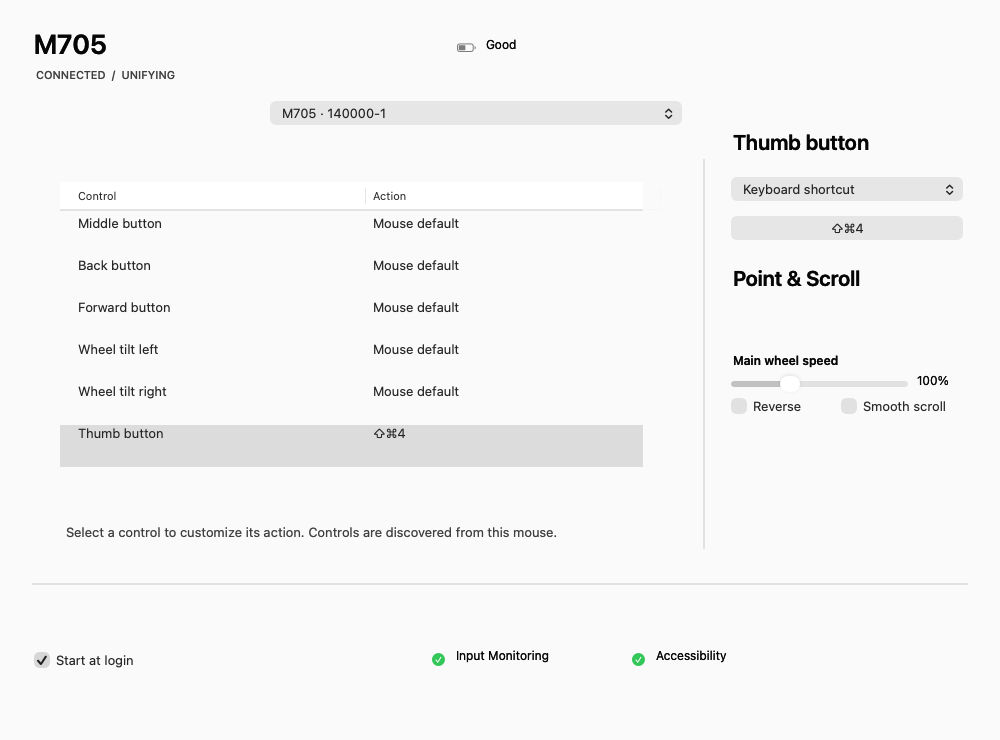
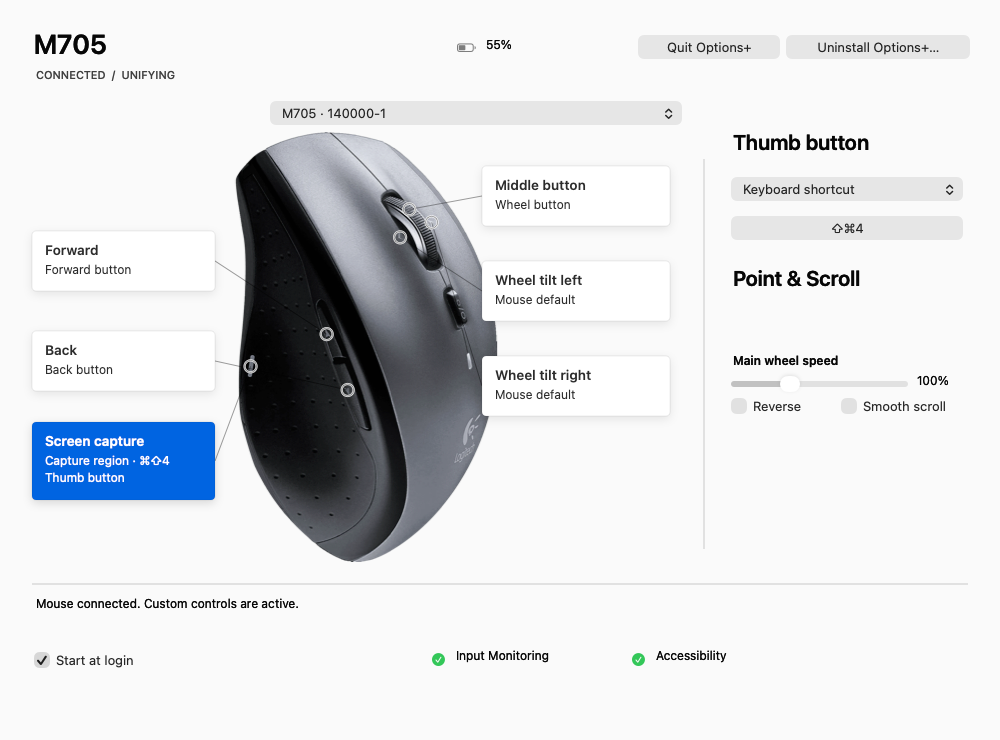
fix: preserve mouse diagrams and offline settings
Restore M705 artwork and control callouts using Options+ layout metadata. Persist discovered layouts for offline editing and retain remembered devices after removal.

Clarify Settings-only memory use and document resource sources. Validate with the native regression suite and signed build.

diff --git a/src/settings.m b/src/settings.m
@@ -126,22 +126,50 @@ static NSString *shortcutLabel(unsigned short code, NSEventModifierFlags flags) 
 }
 @end
 
+// Positions from the installed M705 Options+ core_metadata.json; controls still
+// come from HID++ discovery, so variants never acquire absent buttons.
+static BOOL m705Layout(unsigned cid, NSPoint *marker, NSRect *callout) {
+    switch(cid) {
+        case 0x52: *marker=NSMakePoint(66.5,18); *callout=NSMakeRect(450,340,200,72); break;
+        case 0x53: *marker=NSMakePoint(43,60); *callout=NSMakeRect(0,175,195,72); break;
+        case 0x56: *marker=NSMakePoint(35,47); *callout=NSMakeRect(0,275,195,72); break;
+        case 0x59: *marker=NSMakePoint(6,54.5); *callout=NSMakeRect(0,75,195,72); break;
+        case 0x5b: *marker=NSMakePoint(63,24.5); *callout=NSMakeRect(450,245,200,72); break;
+        case 0x5d: *marker=NSMakePoint(75,21); *callout=NSMakeRect(450,150,200,72); break;
+        default: return NO;
+    }
+    return YES;
+}
+
 @interface MXDiagram : NSView
 @property NSArray<NSValue *> *anchors;
 @property NSArray<NSValue *> *ends;
 @property BOOL compactMouse;
 @property NSIndexSet *visibleControls;
+@property NSArray<NSDictionary *> *mappedControls;
 @end
 @implementation MXDiagram
 - (NSView *)hitTest:(NSPoint)point { (void)point; return nil; }
 - (void)drawRect:(NSRect)rect {
     (void)rect;
     NSColor *ink = [NSColor.secondaryLabelColor colorWithAlphaComponent:0.48];
-    for (NSUInteger i = 0; i < self.anchors.count; ++i) {
-        if (self.visibleControls && ![self.visibleControls containsIndex:i]) continue;
-        if (self.compactMouse && i >= 4) continue;
-        NSPoint point = self.anchors[i].pointValue, start = self.ends[i].pointValue;
-        if(self.compactMouse) {
+    NSMutableArray<NSValue *> *anchors=[self.anchors mutableCopy], *ends=[self.ends mutableCopy];
+    if(self.mappedControls) {
+        anchors=[NSMutableArray new]; ends=[NSMutableArray new];
+        for(NSDictionary *control in self.mappedControls) {
+            NSPoint marker; NSRect card;
+            if(!m705Layout([control[@"cid"] unsignedIntValue],&marker,&card)) continue;
+            // The 1169×1916 image is centered in the 270×430 view at (205,10).
+            NSPoint point=NSMakePoint(208.82+262.36*marker.x/100,440-430*marker.y/100);
+            [anchors addObject:[NSValue valueWithPoint:point]];
+            [ends addObject:[NSValue valueWithPoint:NSMakePoint(card.origin.x<200 ? NSMaxX(card)-6 : card.origin.x+6,NSMidY(card))]];
+        }
+    }
+    for (NSUInteger i = 0; i < anchors.count; ++i) {
+        if (!self.mappedControls && self.visibleControls && ![self.visibleControls containsIndex:i]) continue;
+        if (!self.mappedControls && self.compactMouse && i >= 4) continue;
+        NSPoint point = anchors[i].pointValue, start = ends[i].pointValue;
+        if(self.compactMouse && !self.mappedControls) {
             NSPoint compactAnchors[]={NSMakePoint(338,337),NSMakePoint(289,253),NSMakePoint(266,286),NSMakePoint(275,183)};
             point=compactAnchors[i];
         }
@@ -215,6 +243,7 @@ static NSString *shortcutLabel(unsigned short code, NSEventModifierFlags flags) 
 @property NSTextField *selectionTitle;
 @property NSMutableArray<NSView *> *buttonPanes;
 @property NSMutableArray<MXCallout *> *callouts;
+@property NSMutableArray<MXCallout *> *extraCallouts;
 @property NSInteger selectedButton;
 @property SMAppService *loginService;
 @property NSTimer *statusTimer;
@@ -288,7 +317,7 @@ static NSString *shortcutLabel(unsigned short code, NSEventModifierFlags flags) 
     NSView *diagram = [[NSView alloc] initWithFrame:NSMakeRect(26, 168, 660, 440)]; [root addSubview:diagram];
     MXMouseView *mouse = [[MXMouseView alloc] initWithFrame:NSMakeRect(205, 10, 270, 430)]; [diagram addSubview:mouse]; self.mouseView=mouse;
     MXDiagram *arrows=[[MXDiagram alloc] initWithFrame:diagram.bounds]; [diagram addSubview:arrows]; self.diagramLines=arrows;
-    self.callouts = [NSMutableArray new];
+    self.callouts = [NSMutableArray new]; self.extraCallouts=[NSMutableArray new];
     NSArray *names = @[@"Middle button", @"Back", @"Forward", @"Thumb button", @"Top button"];
     NSArray<NSValue *> *frames = @[[NSValue valueWithRect:NSMakeRect(432,340,177,72)], [NSValue valueWithRect:NSMakeRect(270,75,174,72)], [NSValue valueWithRect:NSMakeRect(94,235,176,72)], [NSValue valueWithRect:NSMakeRect(0,145,211,90)], [NSValue valueWithRect:NSMakeRect(452,250,185,90)]];
     self.modes = [NSMutableArray new]; self.recorders = [NSMutableArray new]; self.buttonPanes = [NSMutableArray new];
@@ -319,6 +348,9 @@ static NSString *shortcutLabel(unsigned short code, NSEventModifierFlags flags) 
     }
     // Additional HID++ controls share the same editor, without adding a fixed model layout.
     for(NSUInteger i=MX_BUTTON_COUNT;i<MX_BUTTON_COUNT+MX_EXTRA_BUTTON_COUNT;++i) {
+        MXCallout *callout=[[MXCallout alloc] initWithFrame:NSZeroRect]; callout.bordered=NO;
+        callout.tag=(NSInteger)i; callout.target=self; callout.action=@selector(selectButton:); callout.hidden=YES;
+        [diagram addSubview:callout]; [self.extraCallouts addObject:callout];
         NSView *pane=[[NSView alloc] initWithFrame:NSMakeRect(0,0,240,88)]; pane.hidden=YES; [buttonEditor addSubview:pane]; [self.buttonPanes addObject:pane];
         NSPopUpButton *mode=[[NSPopUpButton alloc] initWithFrame:NSMakeRect(0,46,232,30) pullsDown:NO];
         [mode addItemsWithTitles:@[@"Mouse default",@"Keyboard shortcut",@"Do nothing"]]; mode.tag=(NSInteger)i; mode.target=self; mode.action=@selector(modeChanged:); [pane addSubview:mode]; [self.modes addObject:mode];
@@ -380,6 +412,8 @@ static NSString *shortcutLabel(unsigned short code, NSEventModifierFlags flags) 
             NSInteger index=arguments[selection+1].integerValue;
             if(index>=0 && index<MX_BUTTON_COUNT) { self.selectedButton=index; [self updateCallouts]; }
         }
+        NSUInteger deviceSelection=[arguments indexOfObject:@"--preview-device"];
+        if(deviceSelection!=NSNotFound && deviceSelection+1<arguments.count) self.selectedDeviceID=arguments[deviceSelection+1];
         [self refresh:nil];
         NSView *view=self.window.contentView;
         [view layoutSubtreeIfNeeded];
@@ -450,8 +484,61 @@ static NSString *shortcutLabel(unsigned short code, NSEventModifierFlags flags) 
     for(NSDictionary *control in self.availableControls) if([control[@"slot"] unsignedIntegerValue]==slot) return control;
     return nil;
 }
+- (NSArray *)rememberedDevices:(NSDictionary *)status {
+    NSString *path=supportPath(@"known-devices.plist");
+    NSDictionary *saved=readDictionary(path);
+    NSMutableDictionary *known=[saved mutableCopy];
+    NSMutableArray *entries=[NSMutableArray new]; NSMutableSet *seen=[NSMutableSet new];
+    NSArray *live=[status[@"devices"] isKindOfClass:NSArray.class] ? status[@"devices"] : @[];
+    for(id item in live) {
+        if(![item isKindOfClass:NSDictionary.class]) continue;
+        NSDictionary *device=item;
+        NSString *identity=[device[@"id"] isKindOfClass:NSString.class] ? device[@"id"] : nil;
+        if(!identity.length) continue;
+        [seen addObject:identity];
+        NSDictionary *previous=[known[identity] isKindOfClass:NSDictionary.class] ? known[identity] : nil;
+        NSArray *controls=[device[@"controls"] isKindOfClass:NSArray.class] ? device[@"controls"] : @[];
+        NSMutableDictionary *entry=[device mutableCopy];
+        if([device[@"connected"] boolValue] && controls.count) {
+            // Persist layout only, never stale live connection/battery state or bindings.
+            NSMutableDictionary *layout=[NSMutableDictionary new];
+            for(NSString *key in @[@"id",@"name",@"transport",@"controls",@"capabilities"]) if(device[key]) layout[key]=device[key];
+            known[identity]=layout;
+        } else if(![device[@"connected"] boolValue]) {
+            if(previous) {
+                for(NSString *key in @[@"name",@"transport",@"controls",@"capabilities"]) if(previous[key]) entry[key]=previous[key];
+            } else if(!controls.count && ([identity hasPrefix:@"logitech-4082-"] || [identity hasPrefix:@"logitech-b023-"])) {
+                // Existing MX Master 3 installs predate the cache. These exact
+                // model IDs have a known layout; live discovery supersedes it.
+                NSMutableArray *legacy=[NSMutableArray new];
+                const MXDeviceDefinition *model=mx_device_lookup(0x046d,0xb023);
+                for(NSUInteger slot=0;model && slot<MX_BUTTON_COUNT;++slot) {
+                    unsigned cid=model->button_controls[slot]; if(!cid) continue;
+                    const char *name=mx_control_name(cid);
+                    [legacy addObject:@{@"cid":@(cid),@"slot":@(slot),@"name":name ? @(name) : @"Mouse control",@"divertible":@YES}];
+                }
+                entry[@"controls"]=legacy;
+                entry[@"capabilities"]=@{@"buttons":@YES,@"verticalScroll":@YES,@"horizontalScroll":@YES,
+                    @"dpi":@YES,@"wheelMode":@YES,@"smartShift":@YES,@"battery":@YES};
+                NSMutableDictionary *layout=[NSMutableDictionary new];
+                for(NSString *key in @[@"id",@"name",@"transport",@"controls",@"capabilities"]) if(entry[key]) layout[key]=entry[key];
+                known[identity]=layout;
+            }
+        }
+        [entries addObject:entry];
+    }
+    // A receiver or Bluetooth removal must not remove the saved mouse from Settings.
+    for(NSString *identity in [[known allKeys] sortedArrayUsingSelector:@selector(compare:)]) {
+        if([seen containsObject:identity] || ![known[identity] isKindOfClass:NSDictionary.class]) continue;
+        NSMutableDictionary *entry=[known[identity] mutableCopy];
+        entry[@"connected"]=@NO; entry[@"state"]=@"waiting"; entry[@"detail"]=@"Mouse is offline. Showing saved settings.";
+        [entries addObject:entry];
+    }
+    if(path && ![known isEqual:saved]) mx_write_plist(path.fileSystemRepresentation,(__bridge CFDictionaryRef)known);
+    return entries;
+}
 - (NSDictionary *)updateDevice:(NSDictionary *)status {
-    NSArray *entries=[status[@"devices"] isKindOfClass:NSArray.class] ? status[@"devices"] : @[];
+    NSArray *entries=[self rememberedDevices:status];
     self.devices=entries;
     NSDictionary *device=nil;
     for(NSDictionary *candidate in entries) if([candidate[@"id"] isEqual:self.selectedDeviceID]) { device=candidate; break; }
@@ -502,17 +589,43 @@ static NSString *shortcutLabel(unsigned short code, NSEventModifierFlags flags) 
     changed=changed || ![self.availableControls isEqualToArray:editable];
     self.availableControls=editable;
     if(extraSlot>MX_BUTTON_COUNT) self.genericMouse=YES;
-    self.mouseView.hidden=self.diagramLines.hidden=self.genericMouse;
-    self.mouseView.frame=compact ? NSMakeRect(155,50,400,350) : NSMakeRect(205,10,270,430);
+    BOOL mappedM705=compact;
+    for(NSDictionary *control in editable) {
+        NSPoint marker; NSRect frame;
+        if(!m705Layout([control[@"cid"] unsignedIntValue],&marker,&frame)) mappedM705=NO;
+    }
+    if(mappedM705) self.genericMouse=NO;
+    self.diagramLines.mappedControls=mappedM705 ? editable : nil;
+    // Extra controls need the list, but do not remove artwork for known models.
+    BOOL artworkWithList=self.genericMouse && (compact || master3);
+    self.mouseView.hidden=!(compact || master3);
+    self.diagramLines.hidden=self.genericMouse;
+    self.mouseView.frame=artworkWithList ? (compact ? NSMakeRect(0,70,280,300) : NSMakeRect(30,20,220,380)) :
+        (mappedM705 ? NSMakeRect(205,10,270,430) : compact ? NSMakeRect(155,50,400,350) : NSMakeRect(205,10,270,430));
+    self.controlList.frame=artworkWithList ? NSMakeRect(320,228,360,330) : NSMakeRect(60,228,600,330);
+    if(self.controlTable.tableColumns.count==2) {
+        self.controlTable.tableColumns[0].width=artworkWithList ? 175 : 285;
+        self.controlTable.tableColumns[1].width=artworkWithList ? 155 : 285;
+    }
     self.mouseView.compactMouse=compact; self.mouseView.needsDisplay=YES;
     self.diagramLines.compactMouse=compact;
     NSMutableIndexSet *visible=[NSMutableIndexSet new];
+    NSArray<NSValue *> *defaultFrames=@[[NSValue valueWithRect:NSMakeRect(432,340,177,72)], [NSValue valueWithRect:NSMakeRect(270,75,174,72)], [NSValue valueWithRect:NSMakeRect(94,235,176,72)], [NSValue valueWithRect:NSMakeRect(0,145,211,90)], [NSValue valueWithRect:NSMakeRect(452,250,185,90)]];
     for(NSUInteger i=0;i<MX_BUTTON_COUNT;++i) {
+        if(i<self.callouts.count) self.callouts[i].frame=defaultFrames[i].rectValue;
         BOOL present=[self controlForSlot:i]!=nil;
         self.callouts[i].hidden=self.genericMouse || !present;
         if(present) [visible addIndex:i];
     }
     if([self hasCapability:@"horizontalScroll"]) [visible addIndex:5];
+    for(MXCallout *callout in self.extraCallouts) callout.hidden=YES;
+    if(mappedM705) for(NSDictionary *control in editable) {
+        NSUInteger slot=[control[@"slot"] unsignedIntegerValue]; NSPoint marker; NSRect frame;
+        if(!m705Layout([control[@"cid"] unsignedIntValue],&marker,&frame)) continue;
+        MXCallout *callout=slot<MX_BUTTON_COUNT ? (slot<self.callouts.count ? self.callouts[slot] : nil) :
+            (slot-MX_BUTTON_COUNT<self.extraCallouts.count ? self.extraCallouts[slot-MX_BUTTON_COUNT] : nil);
+        callout.frame=frame; callout.hidden=NO;
+    }
     self.diagramLines.visibleControls=visible; self.diagramLines.needsDisplay=YES;
     for(NSView *view in self.wheelViews) view.hidden=![self hasCapability:@"wheelMode"];
     [self.wheelMode itemAtIndex:3].enabled=[self hasCapability:@"smartShift"];
@@ -556,6 +669,17 @@ static NSString *shortcutLabel(unsigned short code, NSEventModifierFlags flags) 
         self.callouts[i].selected=(NSInteger)i==self.selectedButton;
         self.callouts[i].needsDisplay=YES;
 
+    }
+    for(NSUInteger i=0;i<self.extraCallouts.count;++i) {
+        NSUInteger slot=i+MX_BUTTON_COUNT; NSDictionary *control=[self controlForSlot:slot];
+        MXCallout *callout=self.extraCallouts[i];
+        if(control) {
+            NSInteger mode=self.modes[slot].indexOfSelectedItem;
+            NSString *action=mode==MX_SHORTCUT ? shortcutLabel(self.recorders[slot].keyCode,self.recorders[slot].shortcutModifiers) : mode==MX_DISABLED ? @"Do nothing" : @"Mouse default";
+            callout.title=[NSString stringWithFormat:@"%@\n%@",control[@"name"] ?: @"Mouse control",action];
+            callout.accessibilityLabel=[callout.title stringByReplacingOccurrencesOfString:@"\n" withString:@", "];
+            callout.selected=(NSInteger)slot==self.selectedButton; callout.needsDisplay=YES;
+        }
     }
     for(NSUInteger i=0;i<self.buttonPanes.count;++i) self.buttonPanes[i].hidden=(NSInteger)i!=self.selectedButton || ![self controlForSlot:i];
     NSDictionary *selected=self.selectedButton>=0 ? [self controlForSlot:(NSUInteger)self.selectedButton] : nil;

diff --git a/tests/settings_test.m b/tests/settings_test.m
@@ -23,6 +23,14 @@ static NSDictionary *device(NSString *identity, NSString *name, NSArray *control
 static SettingsTestDelegate *editor(void) {
     SettingsTestDelegate *ui=[SettingsTestDelegate new];
     ui.deviceSelector=[[NSPopUpButton alloc] initWithFrame:NSZeroRect];
+    ui.mouseView=[[MXMouseView alloc] initWithFrame:NSZeroRect];
+    ui.diagramLines=[[MXDiagram alloc] initWithFrame:NSZeroRect];
+    ui.controlList=[[NSScrollView alloc] initWithFrame:NSZeroRect];
+    ui.callouts=[NSMutableArray new]; ui.extraCallouts=[NSMutableArray new];
+    for(NSUInteger i=0;i<6;++i) [ui.callouts addObject:[MXCallout new]];
+    for(NSUInteger i=0;i<MX_EXTRA_BUTTON_COUNT;++i) {
+        MXCallout *callout=[MXCallout new]; callout.tag=(NSInteger)(i+MX_BUTTON_COUNT); [ui.extraCallouts addObject:callout];
+    }
     ui.modes=[NSMutableArray new]; ui.recorders=[NSMutableArray new]; ui.buttonPanes=[NSMutableArray new];
     for(NSUInteger i=0;i<MX_BUTTON_COUNT+MX_EXTRA_BUTTON_COUNT;++i) {
         NSPopUpButton *mode=[[NSPopUpButton alloc] initWithFrame:NSZeroRect];
@@ -86,9 +94,12 @@ int main(void) {
         ui.verticalSpeed.integerValue=200; ui.invertVertical.state=NSControlStateValueOff; ui.smooth.state=NSControlStateValueOff;
         assert([ui save] && mx_load_device_config(&config,"m705",error,sizeof(error)));
         assert(config.vertical_speed==140 && config.invert_vertical && config.smooth);
-        // If the selected mouse disappears, fallback loads the remaining profile without saving stale UI values into it.
+        // A disappearing mouse remains selected with its saved layout and profile.
         NSDictionary *savedMX4=after[@"devices"][@"mx4"];
         ui.testStatus=@{@"devices":@[mx4]}; [ui refresh:nil];
+        assert([ui.selectedDeviceID isEqual:@"m705"] && ![ui.selectedDevice[@"connected"] boolValue]);
+        assert(ui.availableControls.count==3 && !ui.mouseView.hidden);
+        ui.selectedDeviceID=@"mx4"; ui.selectedDevice=nil; [ui refresh:nil];
         assert([ui.selectedDeviceID isEqual:@"mx4"] && ui.verticalSpeed.integerValue==79);
         assert([readDictionary(supportPath(@"settings.plist"))[@"devices"][@"mx4"] isEqual:savedMX4]);
         // Existing explicit overrides must be updated when editing a legacy-slot control.
@@ -96,7 +107,7 @@ int main(void) {
         assert(mx_binding_for_control(&config,0xc3,3)->key==50);
         assert(![ui canImportOptions]);
         NSDictionary *master3=device(@"master3",@"MX Master 3 for Mac",@[control(0xc3,3,@"Gesture")]);
-        ui.testStatus=@{@"devices":@[master3]}; [ui refresh:nil]; assert([ui canImportOptions]);
+        ui.selectedDeviceID=@"master3"; ui.selectedDevice=nil; ui.testStatus=@{@"devices":@[master3]}; [ui refresh:nil]; assert([ui canImportOptions]);
         NSDictionary *imported=[ui settingsByImportingProfile:@{@"buttons":@{@"thumb":binding(49)}} intoSettings:after];
         assert([imported[@"buttons"] isEqual:legacy[@"buttons"]] && [imported[@"devices"][@"mx4"] isEqual:after[@"devices"][@"mx4"]]);
         assert([imported[@"devices"][@"master3"][@"buttons"][@"thumb"][@"keyCode"] intValue]==49);
@@ -107,6 +118,40 @@ int main(void) {
         // A deliberate selection of an offline mouse remains stable while another is active.
         [fresh.deviceSelector selectItemAtIndex:0]; [fresh deviceChanged:fresh.deviceSelector]; [fresh refresh:nil];
         assert([fresh.selectedDeviceID isEqual:@"master3"] && ![fresh.selectedDevice[@"connected"] boolValue]);
+        // Wheel tilt requires the list while retaining the known M705 artwork.
+        NSDictionary *tiltM705=device(@"m705",@"M705",@[control(0x52,0,@"Middle"),control(0x5b,-1,@"Wheel tilt left"),control(0x5d,-1,@"Wheel tilt right")]);
+        fresh.selectedDeviceID=@"m705"; fresh.testStatus=@{@"devices":@[tiltM705]}; [fresh refresh:nil];
+        assert(!fresh.genericMouse && !fresh.mouseView.hidden && fresh.mouseView.compactMouse);
+        assert(fresh.controlList.hidden && !fresh.diagramLines.hidden);
+        assert(fresh.diagramLines.mappedControls.count==3);
+        assert(!fresh.extraCallouts[0].hidden && !fresh.extraCallouts[1].hidden);
+        [fresh selectButton:fresh.extraCallouts[1]];
+        assert([fresh controlForSlot:(NSUInteger)fresh.selectedButton][@"cid"] && fresh.selectedButton==6);
+        fresh.selectedDeviceID=@"master3"; fresh.testStatus=@{@"devices":@[master3]}; [fresh refresh:nil];
+        assert(!fresh.genericMouse && !fresh.mouseView.hidden && fresh.controlList.hidden);
+        assert(fresh.extraCallouts[0].hidden && !fresh.diagramLines.mappedControls);
+        assert(NSEqualRects(fresh.callouts[0].frame,NSMakeRect(432,340,177,72)));
+        fresh.selectedDeviceID=@"mx4"; fresh.testStatus=@{@"devices":@[mx4]}; [fresh refresh:nil];
+        assert(fresh.genericMouse && fresh.mouseView.hidden && !fresh.controlList.hidden);
+        // A fresh window after helper restart restores the layout with empty offline status.
+        SettingsTestDelegate *reopened=editor(); reopened.selectedDeviceID=@"m705";
+        NSMutableDictionary *sleeping=[tiltM705 mutableCopy]; sleeping[@"connected"]=@NO;
+        sleeping[@"controls"]=@[]; sleeping[@"capabilities"]=@{};
+        reopened.testStatus=@{@"devices":@[sleeping]}; [reopened refresh:nil];
+        assert(reopened.availableControls.count==3 && reopened.diagramLines.mappedControls.count==3);
+        assert([reopened hasCapability:@"verticalScroll"] && ![reopened.selectedDevice[@"connected"] boolValue]);
+        assert(mx_load_device_config(&config,"m705",error,sizeof(error)) && config.vertical_speed==140);
+        // New live discovery replaces cached controls, including removal of a thumb.
+        reopened.testStatus=@{@"devices":@[m705]}; [reopened refresh:nil];
+        assert(![reopened controlForSlot:5] && reopened.availableControls.count==3);
+        // A never-seen variant gets no guessed controls.
+        NSDictionary *unseen=@{@"id":@"unknown-m705",@"name":@"M705",@"connected":@NO,@"controls":@[]};
+        reopened.selectedDeviceID=@"unknown-m705"; reopened.testStatus=@{@"devices":@[unseen]}; [reopened refresh:nil];
+        assert(reopened.availableControls.count==0);
+        NSDictionary *legacyOffline=@{@"id":@"logitech-4082-old-install-2",@"name":@"MX Master 3",@"connected":@NO,@"controls":@[],@"capabilities":@{}};
+        reopened.selectedDeviceID=legacyOffline[@"id"]; reopened.testStatus=@{@"devices":@[legacyOffline]}; [reopened refresh:nil];
+        assert(reopened.availableControls.count==5 && [reopened hasCapability:@"horizontalScroll"]);
+        assert(!reopened.mouseView.hidden && !reopened.diagramLines.hidden);
         // With no connected devices, the first saved device remains a useful fallback.
         SettingsTestDelegate *allOffline=editor(); NSMutableDictionary *offlineM705=[m705 mutableCopy]; offlineM705[@"connected"]=@NO;
         allOffline.testStatus=@{@"devices":@[offlineMaster,offlineM705]}; [allOffline refresh:nil];

diff --git a/scripts/build.py b/scripts/build.py
@@ -68,7 +68,7 @@ def info(bundle, identifier, executable, background=False):
         "CFBundlePackageType": "APPL",
         "CFBundleIconFile": "MXMouseHelper" if background else "MXMouse",
         "CFBundleShortVersionString": "0.2.0",
-        "CFBundleVersion": "4",
+        "CFBundleVersion": "5",
         "LSMinimumSystemVersion": "13.0",
         "NSHighResolutionCapable": True,
     }

diff --git a/docs/development.md b/docs/development.md
@@ -95,3 +95,15 @@ The supported feature paths are reprogrammable controls V4 (`1b04`), high-resolu
 7. **Validate the physical device.** Check press/release, shortcuts, native pointer/click behavior, supported wheels and DPI, simultaneous mice, receiver slot replacement, unplug/reconnect, sleep/wake and native behavior after graceful shutdown. Include model, transport, macOS version and measured resident memory with the report.
 
 Keep model claims proportional to the evidence. Wider HID++ feature coverage can be added without a resident framework, background web UI or another helper process; connected-device memory still needs measurement before adopting a build with a higher footprint.
+
+
+## Installed Options+ resource references
+
+Options+ stores its device catalog in `/Library/Application Support/Logi/LogiOptionsPlus/devices.json` and downloaded artwork in `depots/<build>/<device-depot>/`. The locally reviewed build `881239` (Options+ `2.9.994631`) contains a 191-entry device catalog; downloaded device artwork is limited to the devices it has fetched.
+
+Useful files are `manifest.json` (model-to-image mapping), `core_metadata.json` (image dimensions and button marker percentages), and the referenced WebP images. The M705 layout uses `m705_lcc/side.webp` and its metadata. The catalog distinguishes old M705 `4101b` controls 82/83/86/89/91/93 from newer `4406d` controls 82/83/86/91/93. The Master 4 entries list controls 82/83/86/195/196/416, but their artwork depots were not downloaded at inspection time.
+
+Use these as artwork/layout references, with credits recorded separately. The helper continues to discover actual device capabilities over HID++; catalog entries alone do not establish device support. Only Settings loads the selected bundled artwork; the resident helper does not load the catalog, image files, or Options+ components.
+
+
+Settings remembers discovered mouse names, controls, and capabilities in `~/Library/Application Support/MX Mouse/known-devices.plist`. This is separate from shortcut profiles in `settings.plist`. Offline devices remain selectable and editable using their last known layout, including after Settings or the helper restarts; fresh connected discovery replaces the cached layout. Connection and battery readings are never restored as live values. Existing MX Master 3 model IDs have a baseline button layout for upgrading installations that predate this cache. Unknown models require an initial successful connection with Settings open. The helper does not load this Settings-only cache.

diff --git a/docs/releases/v0.2.0.md b/docs/releases/v0.2.0.md
@@ -10,6 +10,10 @@
 
 ## Fixed
 
+- Restored M705 artwork, clickable button labels and connector arrows, including wheel tilt, using Options+ artwork and layout metadata.
+- Remembered mice retain their last known layouts and editable shortcuts while offline, after receiver removal, and across Settings/helper restarts. Existing MX Master 3 installations receive a baseline layout until discovery refreshes it.
+- The README distinguishes resident helper memory from the additional memory used only while Settings is open.
+
 - Unsupported optional wheel or DPI settings no longer disable working button shortcuts.
 - Failed receiver discovery retries automatically, even if the initial scan found no mouse. Wake and settings reload retry immediately.
 - A sleeping or disconnected paired mouse shows as waiting and retains wake recovery, without repeatedly logging expected offline errors.
@@ -31,6 +35,8 @@ The new implementation has been checked for discovery, configuration and battery
 Only features the helper implements are exposed. HID++ 1.0-only mice, older Gestures2 thumbwheels and alternative gaming-mouse control/DPI protocols require additional backends. See [coverage and verification tiers](https://github.com/ruibeard/logitech-options-plus-alternative/blob/v0.2.0/docs/development.md#capability-and-verification-tiers).
 
 ## Install
+
+Updated v0.2.0 package: bundle build **5**, including the diagram and offline-settings fixes.
 
 **Apple Silicon · macOS 13+**. Download the ZIP, unzip, and drag MX Mouse Settings into Applications. Quit Settings and gracefully stop its helper before replacing an older installation. Existing settings are preserved. See [upgrade instructions](https://github.com/ruibeard/logitech-options-plus-alternative/blob/v0.2.0/docs/setup.md).
 

diff --git a/docs/credits.md b/docs/credits.md
@@ -27,4 +27,4 @@ These are protocol references; this repository does not vendor their implementat
 
 The mouse illustration in `assets/mx-master-3.png` is a lossless conversion of Logitech’s `mx_master_3/side_ext_3.webp` from the installed Options+ device depot. Connector positions come from Logitech’s `core_metadata.json`. The native app icons are generated by `scripts/icon.m`. Only the image used by the app is retained in this repository.
 
-The M705 illustration is Logitech’s official [gallery image](https://resource.logitech.com/content/dam/logitech/en/products/mice/m705/gallery/m705-gallery-2.png). Gallery artwork is not used to infer hardware controls. The connected pre-2018 M705 reports its thumb control (CID `0059`); Logitech [documents the variant difference](https://support.logi.com/hc/en-001/articles/360023357553-Differences-between-M705-mice).
+The M705 illustration is a lossless PNG conversion of `m705_lcc/side.webp` from the installed Options+ device depot (build `881239`). Its button marker positions come from `m705_lcc/core_metadata.json`; only controls discovered from the connected mouse receive callouts. Artwork and metadata do not establish hardware support. The connected pre-2018 M705 reports its thumb control (CID `0059`); Logitech [documents the variant difference](https://support.logi.com/hc/en-001/articles/360023357553-Differences-between-M705-mice).

diff --git a/README.md b/README.md
@@ -2,11 +2,13 @@
 
 A lightweight native macOS alternative to Logitech Logi Options+ for compatible Logitech HID++ mice.
 
-|        |   MX Mouse | MX Mouse UI (earlier build) | Logi Options+ |
+|        | MX Mouse helper (normal use) | Settings UI (only while open) | Logi Options+ |
 |--------|-----------:|------------:|--------------:|
-| Memory | **3.05–4.39 MiB** |     29.1 MiB |       120+ MB |
+| Memory | **3.05–4.39 MiB** | **~29.1 MiB while open; 0 when closed** | 120+ MB |
 
-Close the window to leave only the helper running. The helper range was measured with one M705 active; memory with two awake mice is still unverified. See [measurements and validation](docs/development.md#footprint).
+**During normal use, only the small helper runs.** Open Settings to configure shortcuts and mouse options; its UI temporarily uses additional memory (~29.1 MiB measured in an earlier build). **Closing the Settings window exits the UI and releases its memory.** Your shortcuts and mouse settings keep working through the helper.
+
+The helper range was measured with one M705 active; memory with two awake mice is still unverified. See [measurements and validation](docs/development.md#footprint).
 
 ![MX Mouse Settings](docs/images/settings.png)
 
